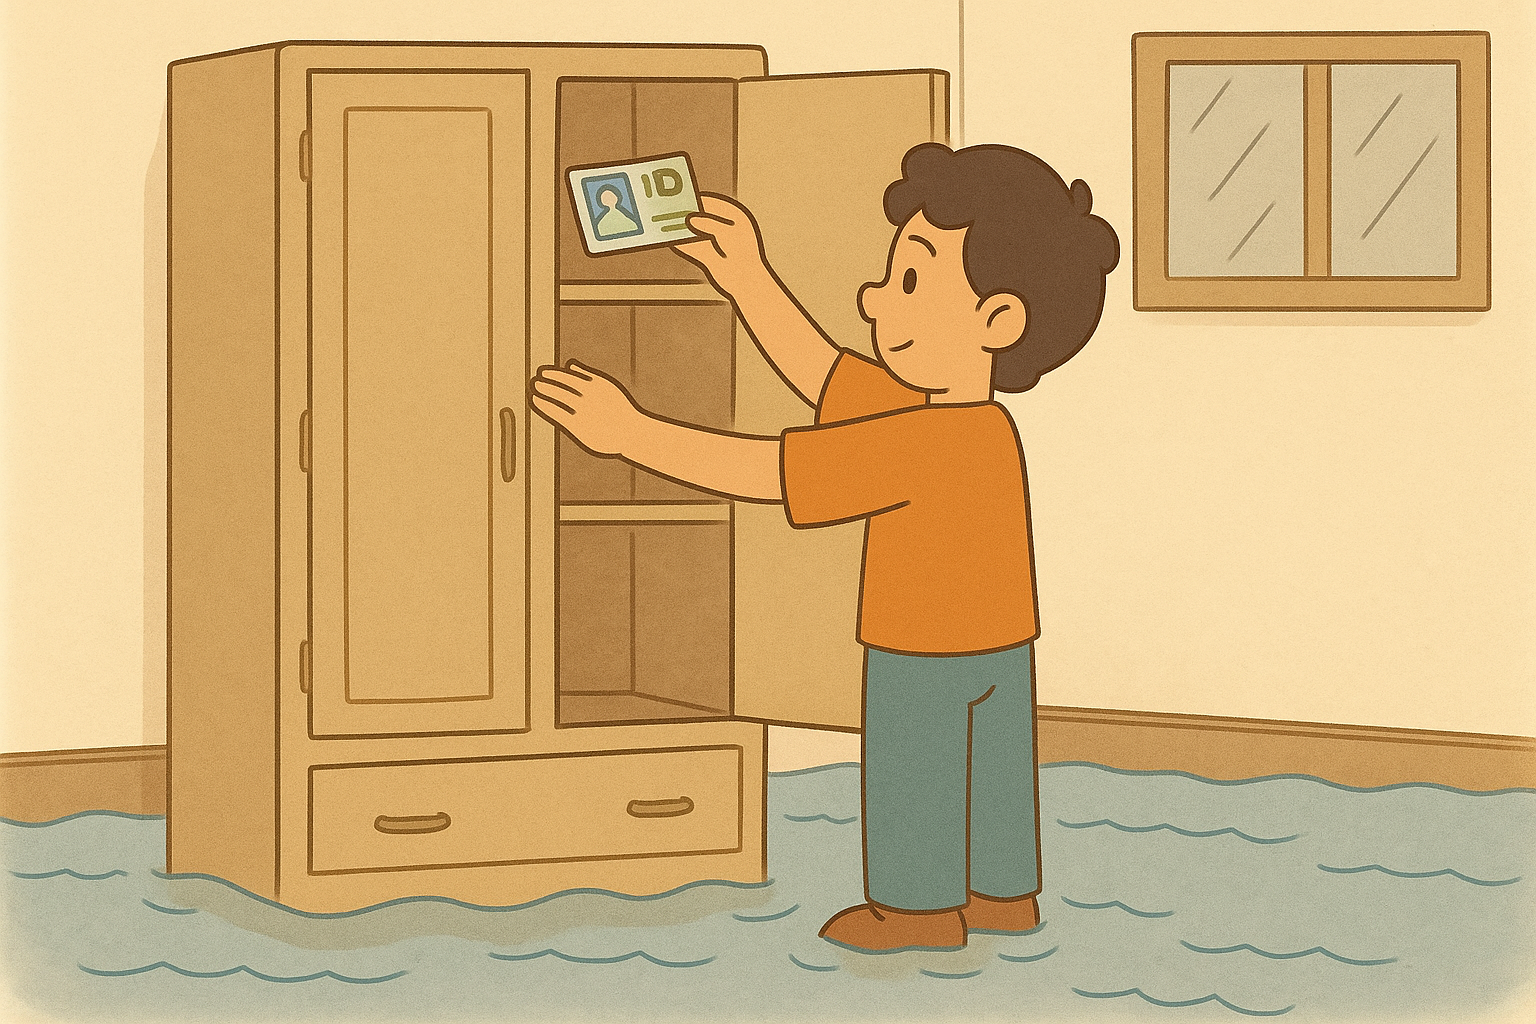
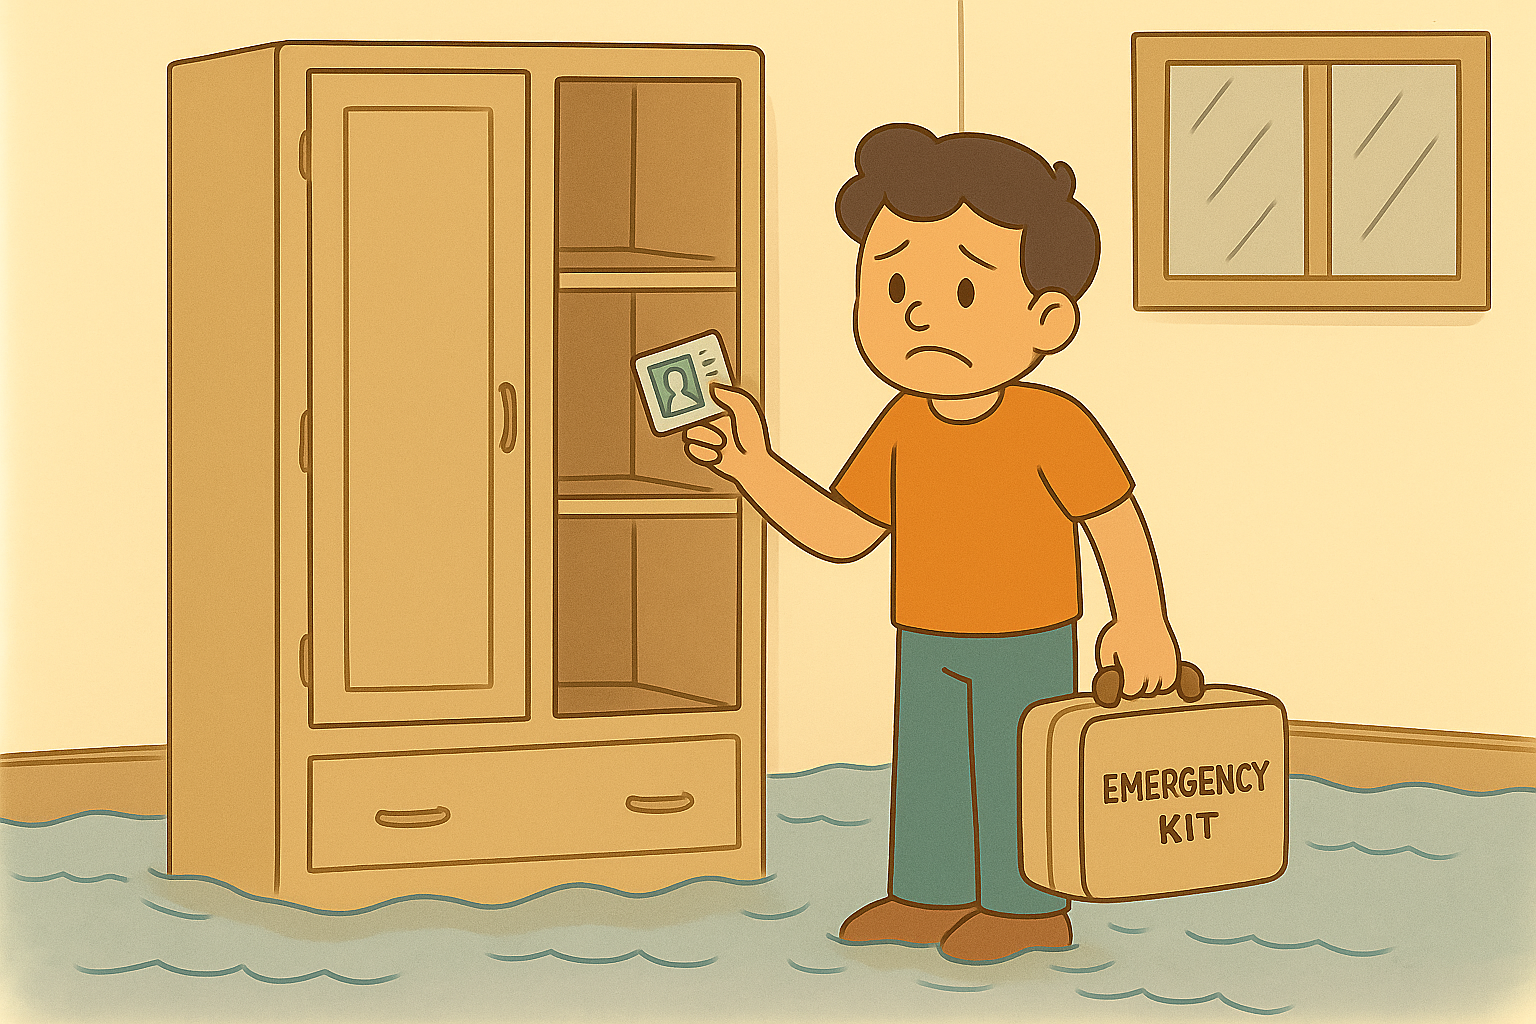
imagens site educativo e layout completo

diff --git a/src/paginas/EducaCidade.jsx b/src/paginas/EducaCidade.jsx
@@ -1,8 +1,9 @@
 import img from "../img/alerta_celular.png"
 import img1 from "../img/coferir_chuva.png"
 import img2 from "../img/pegar_doc.png"
-import img3 from "../img/local_seguro.jpeg"
-import img4 from "../img/nubi_oculos.png"
+import img3 from "../img/local_seguro.png"
+import img4 from "../img/nubi_professor.png"
+import img5 from "../img/familia_reunida.png"
 import { useEffect, useState } from "react"
 
 export default function EducaCidade() {
@@ -31,6 +32,56 @@ export default function EducaCidade() {
         "Mantenha a calma e siga as orientações oficiais."
     ];
 
+    const alertasInundacao = [
+        {
+            titulo: "Leia atentamente a mensagem de alerta gerada pelo Risk Mapping.",
+            imagemSrc: img,
+            dicas: [
+                "Mantenha a calma. A informação é poder!",
+                'O alerta de **"HIGH FLOOD RISK"** (Alto Risco de Inundação) indica que sua área pode ser afetada em breve.',
+                "Confirme sua localização e verifique no mapa do Risk Mapping os **abrigos e rotas de fuga seguros** mais próximos."
+            ]
+        },
+        {
+            titulo: "Não espere a água subir!",
+            imagemSrc: img1,
+            dicas: [
+                "Observe o nível da água na rua. O sinal de perigo indica que o risco é real e imediato.",
+                "Não se arrisque atravessando áreas já alagadas. A água pode esconder buracos, objetos perigosos e a força da correnteza pode derrubar uma pessoa.",
+                "Desligue a **energia elétrica** (o disjuntor principal) da sua casa se a água começar a invadir o imóvel. Isso evita curtos-circuitos e choques elétricos fatais."
+            ]
+        },
+        {
+            titulo: "Prepare-se para Deixar o Local",
+            imagemSrc: img2,
+            dicas: [
+                "Pegue o seu **'Kit de Emergência'**: Este kit deve estar em um local alto e de fácil acesso (como a parte superior de um armário).",
+                "**Documentos são prioridade**: Guarde em um saco plástico à prova d'água seus documentos pessoais (identidade, certidões, carteira de vacinação, etc.).",
+                "**Itens Essenciais**: Inclua água potável, alimentos não perecíveis (enlatados), lanterna, rádio à pilha e medicamentos de uso contínuo."
+            ]
+        },
+        {
+            titulo: "Busque Abrigo em um Local Alto e Seguro",
+            imagemSrc: img3,
+            dicas: [
+                "Use o Risk Mapping para seguir as rotas seguras até os pontos de abrigo indicados.",
+                "Caminhe em áreas mais altas e evite margens de rios, canais e encostas(risco de deslizamento).",
+                "Comunique - se: Se for possível, avise familiares ou vizinhos para onde você está indo.",
+                "Lembre - se: A sua vida e a de sua família são o bem mais importante.Os bens materiais podem ser recuperados, a vida não!"
+            ]
+        },
+        {
+            titulo: "Juntos Somos Mais Fortes!",
+            imagemSrc: img5,
+            dicas: [
+                "Ajude sua comunidade: Ofereça apoio a vizinhos, especialmente idosos, crianças e pessoas com mobilidade reduzida, que podem precisar de ajuda extra para se preparar ou se deslocar.",
+                "Mantenha contato: Troque informações com seus vizinhos sobre a situação e as rotas de segurança.",
+                "Prepare - se em grupo: Discutam em família e com a comunidade um plano de emergência, definindo pontos de encontro e formas de comunicação.",
+                "O Nubi está aqui para lembrar: Em momentos de desafio, a solidariedade e a colaboração fazem toda a diferença.Cuidar uns dos outros é a melhor forma de proteger a todos!"
+            ]
+        }
+    ];
+
     const [frase, setFrase] = useState("");
 
     useEffect(() => {
@@ -41,27 +92,24 @@ export default function EducaCidade() {
 
     return (
         <div className="flex items-center flex-col bg-center w-full dark:bg-[#1e293b]">
-            <div className="w-full h-[250px] lg:h-full flex flex-col items-center justify-center bg-gradient-to-r from-[#2da0af] to-blue-500 dark:bg-[#22415A]">
-                <div className="flex w-[90%] md:w-[70%] flex-col items-center ">
-                    <div className="w-full flex lg:items-center justify-center space-x-6">
-                        <div className="hidden sm:flex flex-col text-left justify-center">
-                            <p className="text-2xl xl:text-3xl font-bold text-amber-50">Nubi conselhos</p>
+            <div className="w-full h-[250px] lg:h-[300px] flex flex-col items-center justify-center bg-gradient-to-r from-[#2da0af] to-blue-500 dark:bg-[#22415A]">
+                <div className="flex w-[90%] sm:w-[70%] md:w-[60%] xl:w-[40%] lg:justify-center flex-col items-center lg:gap-y-2">
+                    <div className="w-full md:w-full flex items-center">
+                        <div className="flex w-full flex-col text-left justify-center text-gray-100 gap-y-3">
+                            <p className="text-2xl xl:text-5xl md:text-3xl font-bold">Nubi conselhos</p>
+                            <p className="hidden lg:flex text-sm lg:text-lg">Além de dar conselhos, o Nubi mostra como se proteger e quais passos seguir durante um alagamento. Segurança vem em primeiro lugar!</p>
                         </div>
-
-                        <div className="flex flex-col sm:hidden text-left justify-center">
-                            <p className="text-2xl xl:text-3xl font-bold text-amber-50">Nubi</p>
-                            <p className="text-2xl xl:text-3xl font-bold text-amber-50">conselhos </p>
-                        </div>
-
-                        <img
-                            className={`h-[100px] w-[140px] xl:h-[250px] xl:w-[360px] transform transition-all duration-1000 
+                        <div className="w-1/2 ">
+                            <img
+                                className={`w-full h-full transform transition-all duration-1000 
                           ${animateNubi ? "opacity-100 translate-x-0" : "opacity-0 -translate-x-20"}`}
-                            src={img4}
-                            alt="Nubi"
-                        />
+                                src={img4}
+                                alt="Nubi"
+                            />
+                        </div>
                     </div>
-                    <div className="w-full bg-[#1a3246] border border-cyan-300 p-5 rounded-2xl text-amber-50 font-semibold break-words text-left lg:w-[50%] ml-4">
-                        <p className="text-lg xl:text-lg">{frase}</p>
+                    <div className="w-full bg-[#1a3246] border border-cyan-300 p-5 rounded-2xl text-gray-100 font-semibold break-words text-left ml-4">
+                        <p className="xl:text-lg">Dica: {frase}</p>
                     </div>
                 </div>
             </div>
@@ -77,7 +125,7 @@ export default function EducaCidade() {
                         <stop offset="100%" stopColor="#3b82f6" /> {/* to-blue-500 */}
                     </linearGradient>
 
-                   <linearGradient id="lightGradient" x1="0%" y1="0%" x2="100%" y2="0%">
+                    <linearGradient id="lightGradient" x1="0%" y1="0%" x2="100%" y2="0%">
                         <stop offset="0%" stopColor="#2da0af" /> {/* from-green-400 */}
                         <stop offset="100%" stopColor="#3b82f6" /> {/* to-blue-500 */}
                     </linearGradient>
@@ -92,8 +140,8 @@ export default function EducaCidade() {
             </svg>
 
 
-            <div className="w-[90%] flex items-center flex-col gap-y-8 mt-8">
-                <div className="w-full h-[400px] flex items-center justify-center max-w-3xl aspect-video rounded-xl overflow-hidden shadow-lg">
+            <div className="w-[90%] sm:w-[80%] md:w-[70%] lg:w-[80%] xl:w-[60%] sm:p-5 shadow-lg flex items-center flex-col gap-y-6 lg:gap-y-16 mt-6">
+                <div className="w-full h-[300px] lg:h-[500px]  aspect-video rounded-xl overflow-hidden shadow-lg">
                     <iframe
                         width="100%"
                         height="100%"
@@ -104,17 +152,26 @@ export default function EducaCidade() {
                         allowFullScreen
                     ></iframe>
                 </div>
-                <div>
-                    <img className="h-[250px] lg:h-[400px] w-[600px]" src={img} alt="" />
-                </div>
-                <div>
-                    <img className="h-[250px] lg:h-[400px] w-[600px]" src={img1} alt="" />
-                </div>
-                <div>
-                    <img className="h-[250px] lg:h-[400px] w-[600px]" src={img2} alt="" />
-                </div>
-                <div>
-                    <img className="h-[250px] lg:h-[400px] w-[600px]" src={img3} alt="" />
+                <div className=" h-full grid gap-y-6 lg:gap-y-16 rounded-lg hover:shadow-xl transition-all bg-white dark:bg-[#1b263b] dark:text-white">
+                    {alertasInundacao.map((alerta, index) => (
+                        <div className="lg:flex lg:justify-center lg:items-center rounded-2xl dark:border border-[#2da0af] grid gap-y-4 gap-x-8 shadow-2xl p-4 lg:p-6" key={index}>
+                            <div className="grid xl:gap-y-4">
+                                <span className="text-lg xl:text-xl dark:text-gray-100 text-gray-900 font-medium">{alerta.titulo}</span>
+                                <img
+                                    className="h-[230px] sm:h-[300px] lg:h-[400px] w-[600px]"
+                                    src={alerta.imagemSrc}
+                                    alt={`Imagem de alerta sobre ${alerta.titulo}`}
+                                />
+                            </div>
+                            <div className="lg:w-1/3">
+                                <ul className="list-disc pl-6 grid gap-y-4">
+                                    {alerta.dicas.map((dica, dicaIndex) => (
+                                        <li className="bg-[#5e90bb11] dark:bg-[#31506b59] dark:text-gray-100 p-2 xl:p-4 rounded-md text-gray-900" key={dicaIndex} dangerouslySetInnerHTML={{ __html: dica }}></li>
+                                    ))}
+                                </ul>
+                            </div>
+                        </div>
+                    ))}
                 </div>
             </div>
         </div >
